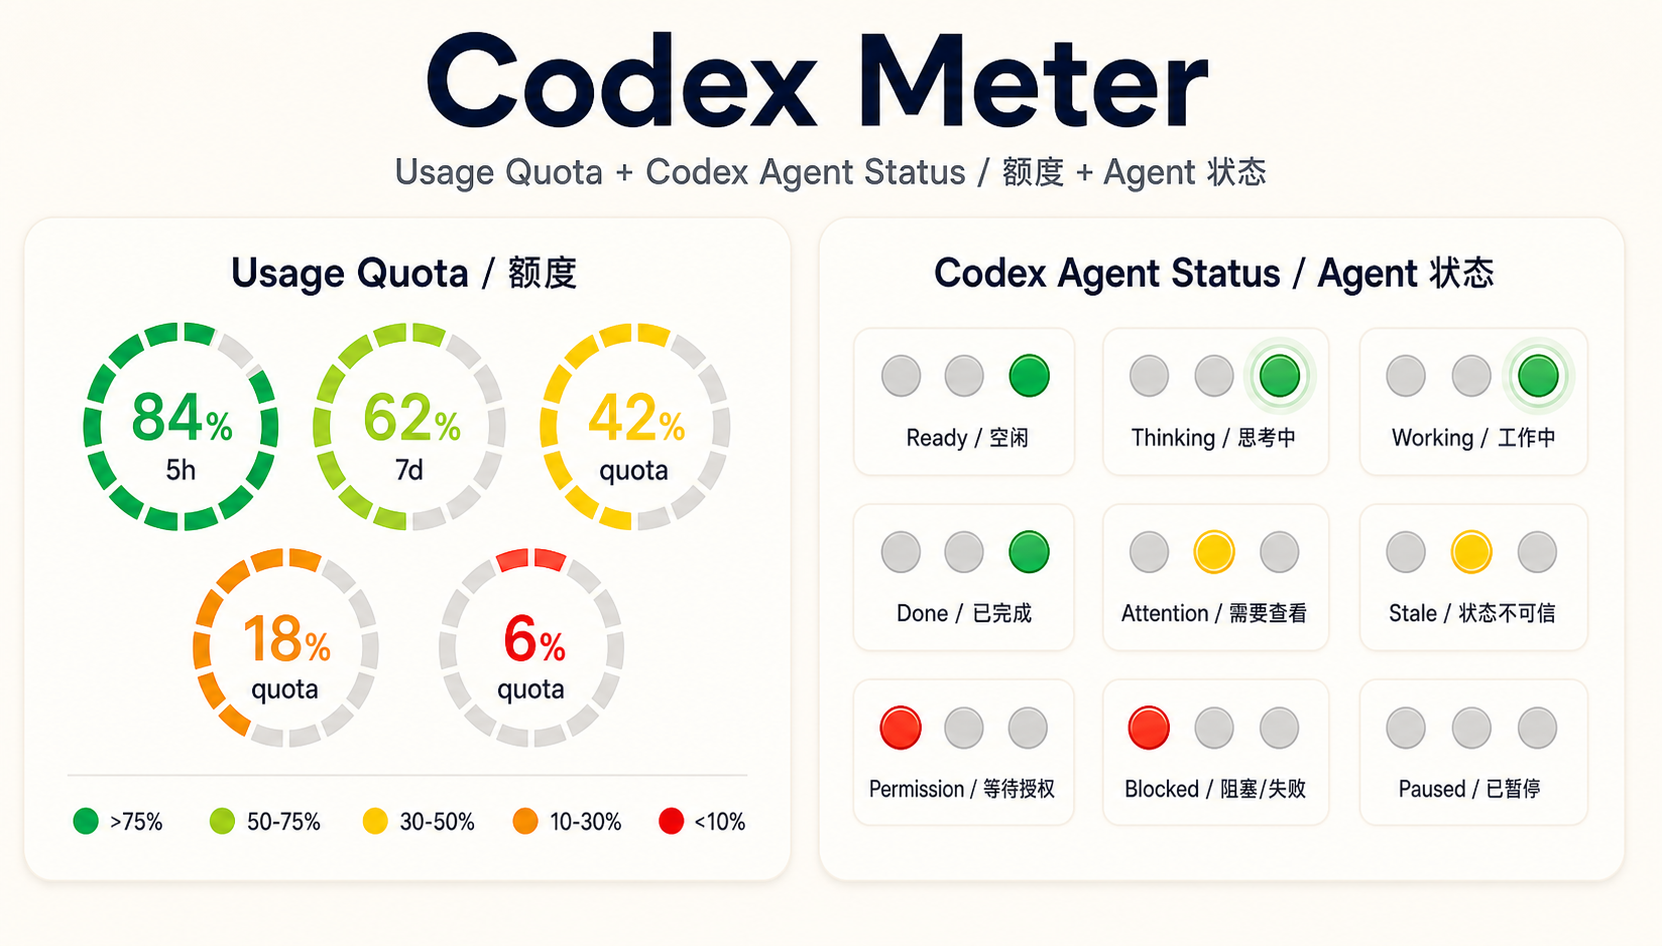
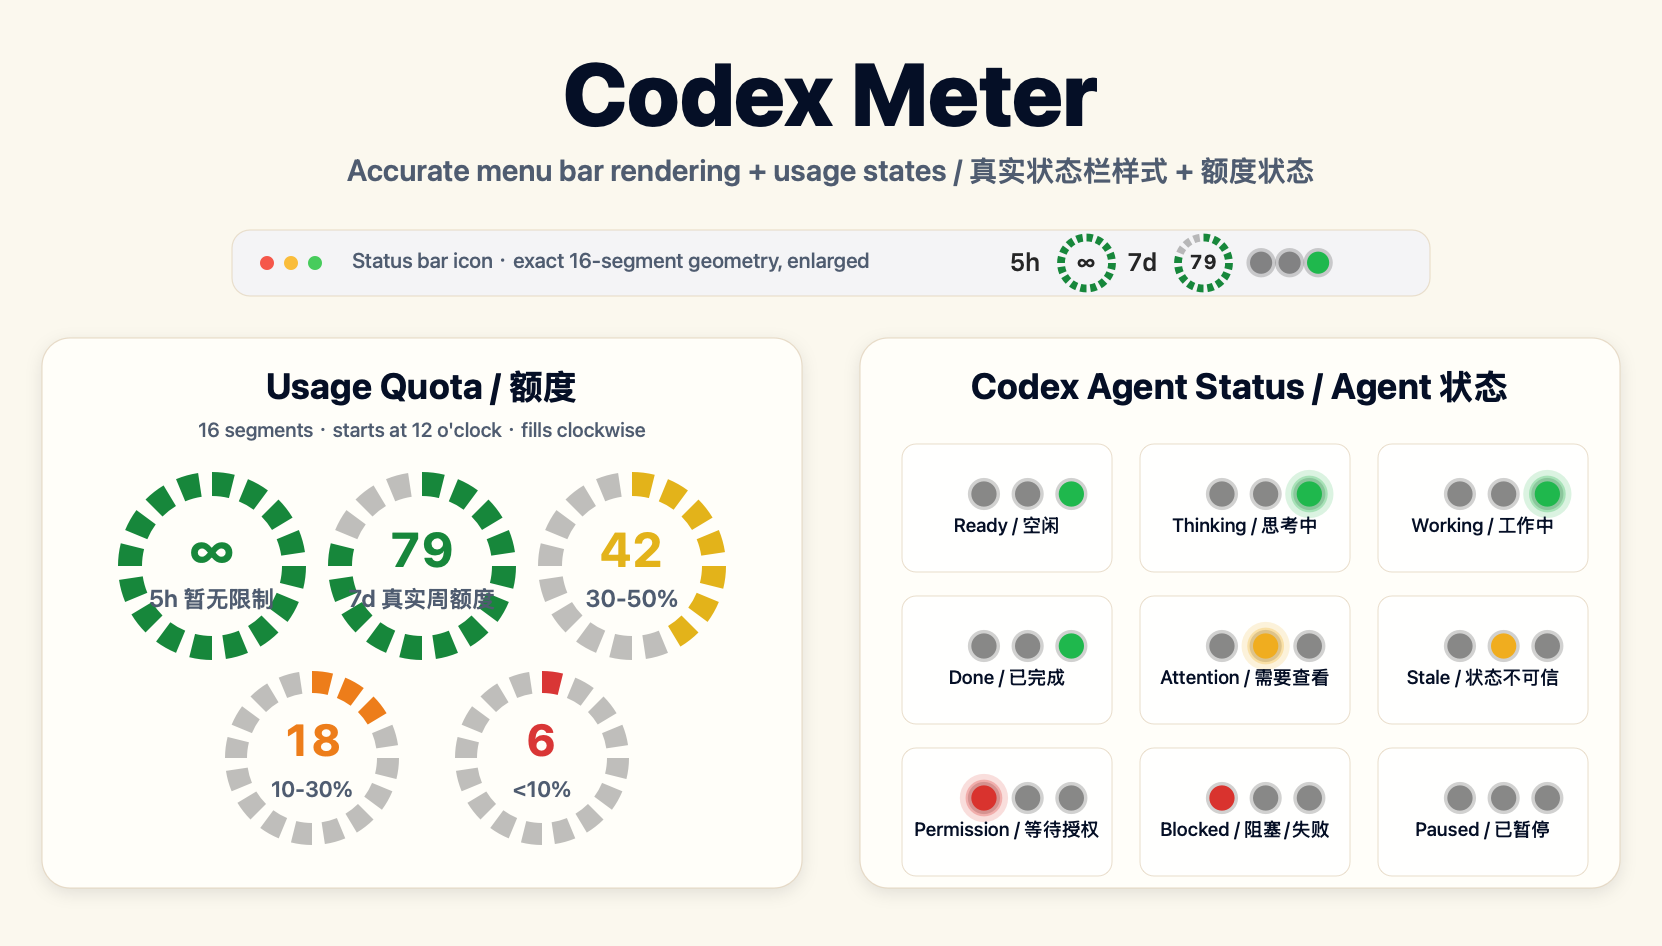
docs: refresh overview image with actual UI rendering

diff --git a/Tools/OverviewImageGenerator/main.swift b/Tools/OverviewImageGenerator/main.swift
@@ -1,0 +1,385 @@
+import AppKit
+import Foundation
+
+private let outputURL = URL(fileURLWithPath: CommandLine.arguments.dropFirst().first ?? "docs/codex-meter-overview.png")
+private let canvasSize = NSSize(width: 1662, height: 946)
+private let segmentCount = 16
+
+private enum UsageLevel {
+    case high
+    case good
+    case medium
+    case low
+    case critical
+
+    init(remainingPercent: Int) {
+        switch remainingPercent {
+        case 75...: self = .high
+        case 50..<75: self = .good
+        case 30..<50: self = .medium
+        case 10..<30: self = .low
+        default: self = .critical
+        }
+    }
+}
+
+private enum AgentColor: CaseIterable {
+    case red
+    case yellow
+    case green
+}
+
+private enum AgentState {
+    case ready
+    case thinking
+    case working
+    case done
+    case attention
+    case permission
+    case blocked
+    case stale
+    case paused
+
+    var active: AgentColor? {
+        switch self {
+        case .ready, .thinking, .working, .done: .green
+        case .attention, .stale: .yellow
+        case .permission, .blocked: .red
+        case .paused: nil
+        }
+    }
+
+    var pulse: Bool {
+        switch self {
+        case .thinking, .working, .attention, .permission: true
+        case .ready, .done, .blocked, .stale, .paused: false
+        }
+    }
+}
+
+private extension NSColor {
+    static let ink = NSColor(red: 0.02, green: 0.06, blue: 0.15, alpha: 1)
+    static let mutedInk = NSColor(red: 0.31, green: 0.36, blue: 0.44, alpha: 1)
+    static let panelStroke = NSColor(red: 0.88, green: 0.82, blue: 0.72, alpha: 1)
+    static let panelFill = NSColor(red: 1.0, green: 0.995, blue: 0.975, alpha: 1)
+    static let chromeFill = NSColor(red: 0.955, green: 0.958, blue: 0.965, alpha: 1)
+    static let dormantSegment = NSColor.secondaryLabelColor.withAlphaComponent(0.25)
+
+    convenience init(_ level: UsageLevel) {
+        switch level {
+        case .high: self.init(red: 0.09, green: 0.53, blue: 0.23, alpha: 1)
+        case .good: self.init(red: 0.45, green: 0.75, blue: 0.27, alpha: 1)
+        case .medium: self.init(red: 0.89, green: 0.70, blue: 0.10, alpha: 1)
+        case .low: self.init(red: 0.93, green: 0.49, blue: 0.10, alpha: 1)
+        case .critical: self.init(red: 0.85, green: 0.21, blue: 0.21, alpha: 1)
+        }
+    }
+
+    convenience init(_ agentColor: AgentColor) {
+        switch agentColor {
+        case .red: self.init(red: 0.85, green: 0.20, blue: 0.18, alpha: 1)
+        case .yellow: self.init(red: 0.94, green: 0.68, blue: 0.12, alpha: 1)
+        case .green: self.init(red: 0.12, green: 0.72, blue: 0.30, alpha: 1)
+        }
+    }
+}
+
+private func paragraph(_ alignment: NSTextAlignment = .left) -> NSMutableParagraphStyle {
+    let style = NSMutableParagraphStyle()
+    style.alignment = alignment
+    style.lineBreakMode = .byWordWrapping
+    return style
+}
+
+private func drawText(
+    _ text: String,
+    in rect: NSRect,
+    font: NSFont,
+    color: NSColor = .ink,
+    alignment: NSTextAlignment = .left
+) {
+    NSString(string: text).draw(
+        in: rect,
+        withAttributes: [
+            .font: font,
+            .foregroundColor: color,
+            .paragraphStyle: paragraph(alignment),
+        ]
+    )
+}
+
+private func drawRoundedPanel(_ rect: NSRect, radius: CGFloat = 28) {
+    NSGraphicsContext.current?.saveGraphicsState()
+    let shadow = NSShadow()
+    shadow.shadowColor = NSColor.black.withAlphaComponent(0.10)
+    shadow.shadowBlurRadius = 18
+    shadow.shadowOffset = NSSize(width: 0, height: -5)
+    shadow.set()
+    NSColor.panelFill.setFill()
+    NSBezierPath(roundedRect: rect, xRadius: radius, yRadius: radius).fill()
+    NSGraphicsContext.current?.restoreGraphicsState()
+
+    NSColor.panelStroke.withAlphaComponent(0.70).setStroke()
+    let stroke = NSBezierPath(roundedRect: rect, xRadius: radius, yRadius: radius)
+    stroke.lineWidth = 1.2
+    stroke.stroke()
+}
+
+private func activeSegments(remainingPercent: Int?) -> Int {
+    guard let remainingPercent else { return 0 }
+    let clamped = min(100, max(0, remainingPercent))
+    guard clamped > 0 else { return 0 }
+    return Int(ceil(Double(clamped) / 100 * Double(segmentCount)))
+}
+
+private func drawUsageRing(
+    center: NSPoint,
+    radius: CGFloat,
+    percent: Int?,
+    lineWidth: CGFloat,
+    label: String,
+    unlimited: Bool = false,
+    numberFontSize: CGFloat = 48,
+    labelFontSize: CGFloat = 24
+) {
+    let displayPercent = unlimited ? 100 : percent
+    let activeCount = activeSegments(remainingPercent: displayPercent)
+    let activeColor = NSColor(UsageLevel(remainingPercent: unlimited ? 100 : (percent ?? 0)))
+
+    for index in 0..<segmentCount {
+        let start = 90 - CGFloat(index) * 360 / CGFloat(segmentCount)
+        let end = start - 14
+        let path = NSBezierPath()
+        path.appendArc(withCenter: center, radius: radius, startAngle: start, endAngle: end, clockwise: true)
+        path.lineWidth = lineWidth
+        path.lineCapStyle = .butt
+        (index < activeCount ? activeColor : NSColor.dormantSegment).setStroke()
+        path.stroke()
+    }
+
+    let number = unlimited ? "∞" : (percent.map(String.init) ?? "--")
+    drawText(
+        number,
+        in: NSRect(x: center.x - 72, y: center.y - 17, width: 144, height: 62),
+        font: .monospacedDigitSystemFont(ofSize: numberFontSize, weight: .bold),
+        color: activeColor,
+        alignment: .center
+    )
+    drawText(
+        label,
+        in: NSRect(x: center.x - 92, y: center.y - 52, width: 184, height: 34),
+        font: .systemFont(ofSize: labelFontSize, weight: .semibold),
+        color: .mutedInk,
+        alignment: .center
+    )
+}
+
+private func makeStatusItemImage() -> NSImage {
+    let size = NSSize(width: 111, height: 22)
+    let image = NSImage(size: size, flipped: false) { _ in
+        drawStatusMeter(label: "5h", percent: nil, unlimited: true, originX: 0)
+        drawStatusMeter(label: "7d", percent: 79, unlimited: false, originX: 39)
+        drawStatusLamp(state: .working, originX: 80)
+        return true
+    }
+    image.isTemplate = false
+    return image
+}
+
+private func drawStatusMeter(label: String, percent: Int?, unlimited: Bool, originX: CGFloat) {
+    let labelAttributes: [NSAttributedString.Key: Any] = [
+        .font: NSFont.monospacedSystemFont(ofSize: 8.3, weight: .semibold),
+        .foregroundColor: NSColor.labelColor,
+    ]
+    NSString(string: label).draw(at: NSPoint(x: originX, y: 6.6), withAttributes: labelAttributes)
+
+    let center = NSPoint(x: originX + 25.5, y: 11)
+    let activeCount = activeSegments(remainingPercent: unlimited ? 100 : percent)
+    let activeColor = NSColor(UsageLevel(remainingPercent: unlimited ? 100 : (percent ?? 0)))
+
+    for index in 0..<segmentCount {
+        let start = 90 - CGFloat(index) * 360 / CGFloat(segmentCount)
+        let end = start - 14
+        let path = NSBezierPath()
+        path.appendArc(withCenter: center, radius: 8.5, startAngle: start, endAngle: end, clockwise: true)
+        path.lineWidth = 2.6
+        path.lineCapStyle = .butt
+        (index < activeCount ? activeColor : NSColor.dormantSegment).setStroke()
+        path.stroke()
+    }
+
+    let number = unlimited ? "∞" : (percent.map(String.init) ?? "--")
+    let attributes: [NSAttributedString.Key: Any] = [
+        .font: NSFont.monospacedDigitSystemFont(ofSize: 6.6, weight: .bold),
+        .foregroundColor: NSColor.labelColor,
+    ]
+    let size = NSString(string: number).size(withAttributes: attributes)
+    NSString(string: number).draw(
+        at: NSPoint(x: center.x - size.width / 2, y: center.y - size.height / 2),
+        withAttributes: attributes
+    )
+}
+
+private func drawStatusLamp(state: AgentState, originX: CGFloat) {
+    for (index, color) in AgentColor.allCases.enumerated() {
+        let rect = NSRect(x: originX + CGFloat(index) * 9.5, y: 7.4, width: 7.4, height: 7.4)
+        NSColor.secondaryLabelColor.withAlphaComponent(0.18).setFill()
+        NSBezierPath(ovalIn: rect.insetBy(dx: -1.2, dy: -1.2)).fill()
+        guard state.active == color else {
+            NSColor.secondaryLabelColor.withAlphaComponent(0.35).setFill()
+            NSBezierPath(ovalIn: rect).fill()
+            continue
+        }
+        NSColor(color).setFill()
+        NSBezierPath(ovalIn: rect).fill()
+    }
+}
+
+private func drawAgentLamp(center: NSPoint, state: AgentState, scale: CGFloat = 1) {
+    for (index, color) in AgentColor.allCases.enumerated() {
+        let x = center.x - 38 * scale + CGFloat(index) * 38 * scale
+        let rect = NSRect(x: x, y: center.y - 11 * scale, width: 22 * scale, height: 22 * scale)
+        NSColor.secondaryLabelColor.withAlphaComponent(0.18).setFill()
+        NSBezierPath(ovalIn: rect.insetBy(dx: -3 * scale, dy: -3 * scale)).fill()
+        guard state.active == color else {
+            NSColor.secondaryLabelColor.withAlphaComponent(0.35).setFill()
+            NSBezierPath(ovalIn: rect).fill()
+            continue
+        }
+        if state.pulse {
+            NSColor(color).withAlphaComponent(0.16).setFill()
+            NSBezierPath(ovalIn: rect.insetBy(dx: -10 * scale, dy: -10 * scale)).fill()
+            NSColor(color).withAlphaComponent(0.28).setFill()
+            NSBezierPath(ovalIn: rect.insetBy(dx: -5 * scale, dy: -5 * scale)).fill()
+        }
+        NSColor(color).setFill()
+        NSBezierPath(ovalIn: rect).fill()
+    }
+}
+
+private func drawAgentStateCard(_ rect: NSRect, state: AgentState, title: String) {
+    NSColor.white.withAlphaComponent(0.84).setFill()
+    NSBezierPath(roundedRect: rect, xRadius: 14, yRadius: 14).fill()
+    NSColor.panelStroke.withAlphaComponent(0.70).setStroke()
+    let outline = NSBezierPath(roundedRect: rect, xRadius: 14, yRadius: 14)
+    outline.lineWidth = 1
+    outline.stroke()
+    drawAgentLamp(center: NSPoint(x: rect.midX + 8, y: rect.maxY - 50), state: state, scale: 1.15)
+    drawText(
+        title,
+        in: NSRect(x: rect.minX + 10, y: rect.minY + 10, width: rect.width - 20, height: 48),
+        font: .systemFont(ofSize: 19, weight: .medium),
+        alignment: .center
+    )
+}
+
+let image = NSImage(size: canvasSize, flipped: false) { _ in
+    NSColor(red: 0.985, green: 0.972, blue: 0.935, alpha: 1).setFill()
+    NSRect(origin: .zero, size: canvasSize).fill()
+
+    drawText(
+        "Codex Meter",
+        in: NSRect(x: 0, y: 795, width: canvasSize.width, height: 110),
+        font: .systemFont(ofSize: 88, weight: .heavy),
+        alignment: .center
+    )
+    drawText(
+        "Accurate menu bar rendering + usage states / 真实状态栏样式 + 额度状态",
+        in: NSRect(x: 0, y: 750, width: canvasSize.width, height: 44),
+        font: .systemFont(ofSize: 30, weight: .semibold),
+        color: .mutedInk,
+        alignment: .center
+    )
+
+    let menuRect = NSRect(x: 232, y: 650, width: 1198, height: 66)
+    NSColor.chromeFill.setFill()
+    NSBezierPath(roundedRect: menuRect, xRadius: 18, yRadius: 18).fill()
+    NSColor.panelStroke.withAlphaComponent(0.65).setStroke()
+    let menuOutline = NSBezierPath(roundedRect: menuRect, xRadius: 18, yRadius: 18)
+    menuOutline.lineWidth = 1.2
+    menuOutline.stroke()
+    let trafficColors = [
+        NSColor(red: 0.96, green: 0.34, blue: 0.29, alpha: 1),
+        NSColor(red: 0.98, green: 0.74, blue: 0.23, alpha: 1),
+        NSColor(red: 0.28, green: 0.80, blue: 0.36, alpha: 1),
+    ]
+    for (index, color) in trafficColors.enumerated() {
+        color.setFill()
+        NSBezierPath(ovalIn: NSRect(x: menuRect.minX + 28 + CGFloat(index) * 24, y: menuRect.midY - 7, width: 14, height: 14)).fill()
+    }
+    drawText(
+        "Status bar icon · exact 16-segment geometry, enlarged",
+        in: NSRect(x: menuRect.minX + 120, y: menuRect.minY + 20, width: 560, height: 28),
+        font: .systemFont(ofSize: 21, weight: .medium),
+        color: .mutedInk
+    )
+    makeStatusItemImage().draw(
+        in: NSRect(x: menuRect.maxX - 420, y: menuRect.minY, width: 333, height: 66),
+        from: .zero,
+        operation: .sourceOver,
+        fraction: 1
+    )
+
+    let usagePanel = NSRect(x: 42, y: 58, width: 760, height: 550)
+    let agentPanel = NSRect(x: 860, y: 58, width: 760, height: 550)
+    drawRoundedPanel(usagePanel)
+    drawRoundedPanel(agentPanel)
+
+    drawText(
+        "Usage Quota / 额度",
+        in: NSRect(x: usagePanel.minX, y: usagePanel.maxY - 74, width: usagePanel.width, height: 48),
+        font: .systemFont(ofSize: 36, weight: .bold),
+        alignment: .center
+    )
+    drawText(
+        "16 segments · starts at 12 o'clock · fills clockwise",
+        in: NSRect(x: usagePanel.minX, y: usagePanel.maxY - 110, width: usagePanel.width, height: 30),
+        font: .systemFont(ofSize: 20, weight: .medium),
+        color: .mutedInk,
+        alignment: .center
+    )
+
+    drawUsageRing(center: NSPoint(x: usagePanel.minX + 170, y: usagePanel.minY + 322), radius: 82, percent: nil, lineWidth: 24, label: "5h 暂无限制", unlimited: true)
+    drawUsageRing(center: NSPoint(x: usagePanel.minX + 380, y: usagePanel.minY + 322), radius: 82, percent: 79, lineWidth: 24, label: "7d 真实周额度")
+    drawUsageRing(center: NSPoint(x: usagePanel.minX + 590, y: usagePanel.minY + 322), radius: 82, percent: 42, lineWidth: 24, label: "30-50%")
+    drawUsageRing(center: NSPoint(x: usagePanel.minX + 270, y: usagePanel.minY + 130), radius: 76, percent: 18, lineWidth: 22, label: "10-30%", numberFontSize: 44, labelFontSize: 22)
+    drawUsageRing(center: NSPoint(x: usagePanel.minX + 500, y: usagePanel.minY + 130), radius: 76, percent: 6, lineWidth: 22, label: "<10%", numberFontSize: 44, labelFontSize: 22)
+
+    drawText(
+        "Codex Agent Status / Agent 状态",
+        in: NSRect(x: agentPanel.minX, y: agentPanel.maxY - 74, width: agentPanel.width, height: 48),
+        font: .systemFont(ofSize: 36, weight: .bold),
+        alignment: .center
+    )
+    let states: [(AgentState, String)] = [
+        (.ready, "Ready / 空闲"),
+        (.thinking, "Thinking / 思考中"),
+        (.working, "Working / 工作中"),
+        (.done, "Done / 已完成"),
+        (.attention, "Attention / 需要查看"),
+        (.stale, "Stale / 状态不可信"),
+        (.permission, "Permission / 等待授权"),
+        (.blocked, "Blocked / 阻塞/失败"),
+        (.paused, "Paused / 已暂停"),
+    ]
+    let cardW: CGFloat = 210
+    let cardH: CGFloat = 128
+    for (index, entry) in states.enumerated() {
+        let col = index % 3
+        let row = index / 3
+        let x = agentPanel.minX + 42 + CGFloat(col) * 238
+        let y = agentPanel.maxY - 234 - CGFloat(row) * 152
+        drawAgentStateCard(NSRect(x: x, y: y, width: cardW, height: cardH), state: entry.0, title: entry.1)
+    }
+
+    return true
+}
+
+guard let tiff = image.tiffRepresentation,
+      let bitmap = NSBitmapImageRep(data: tiff),
+      let png = bitmap.representation(using: .png, properties: [:])
+else {
+    throw NSError(domain: "OverviewImageGenerator", code: 1)
+}
+try png.write(to: outputURL)
+print(outputURL.path)
